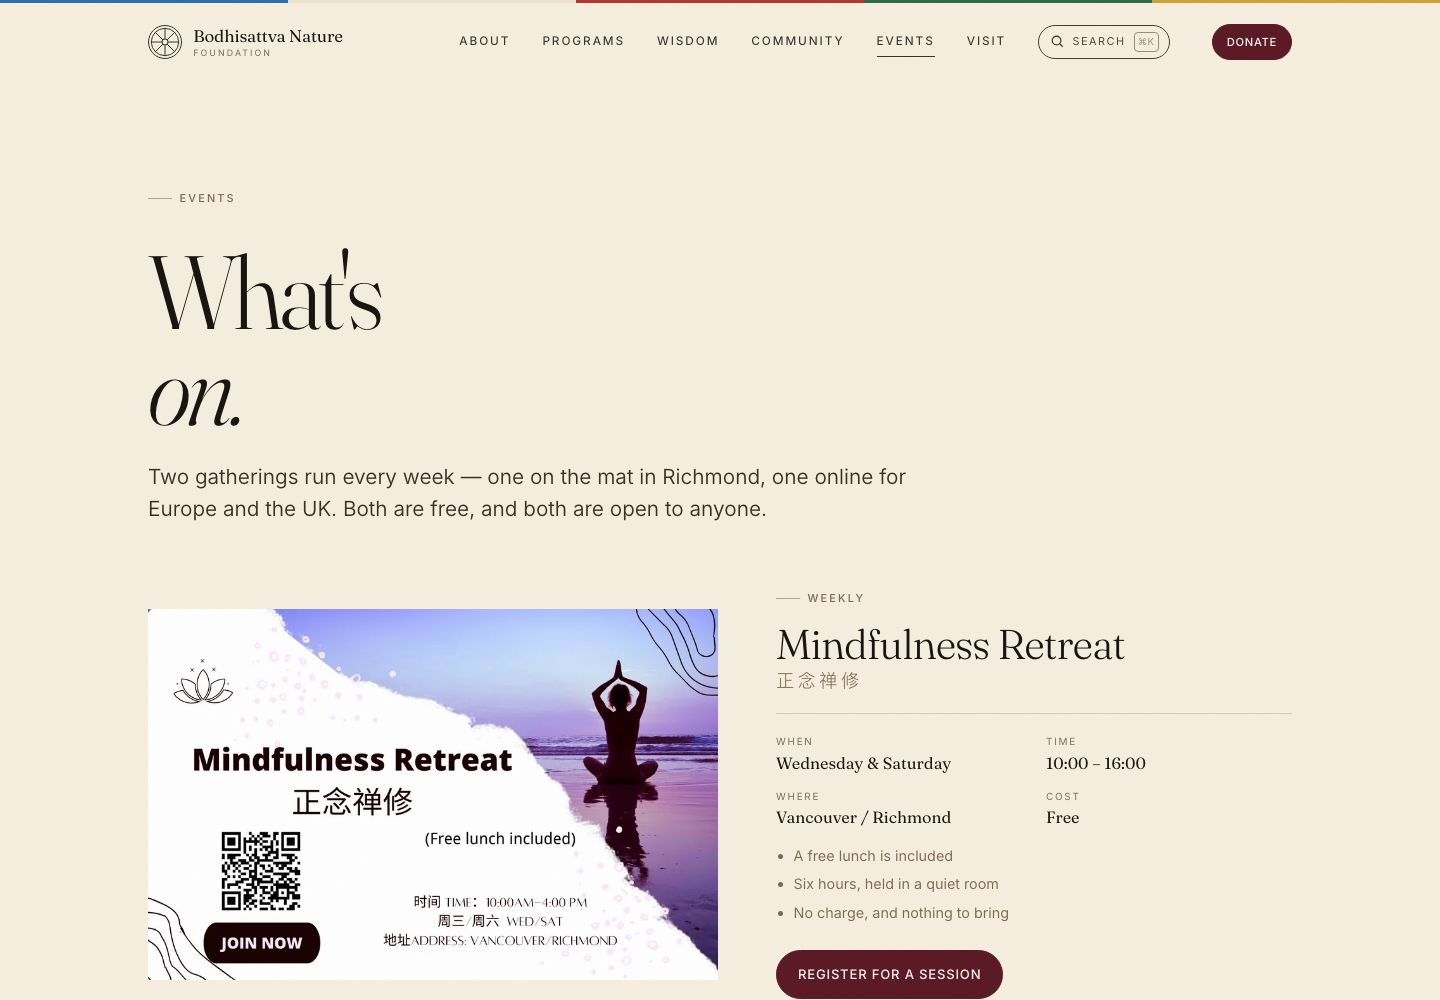
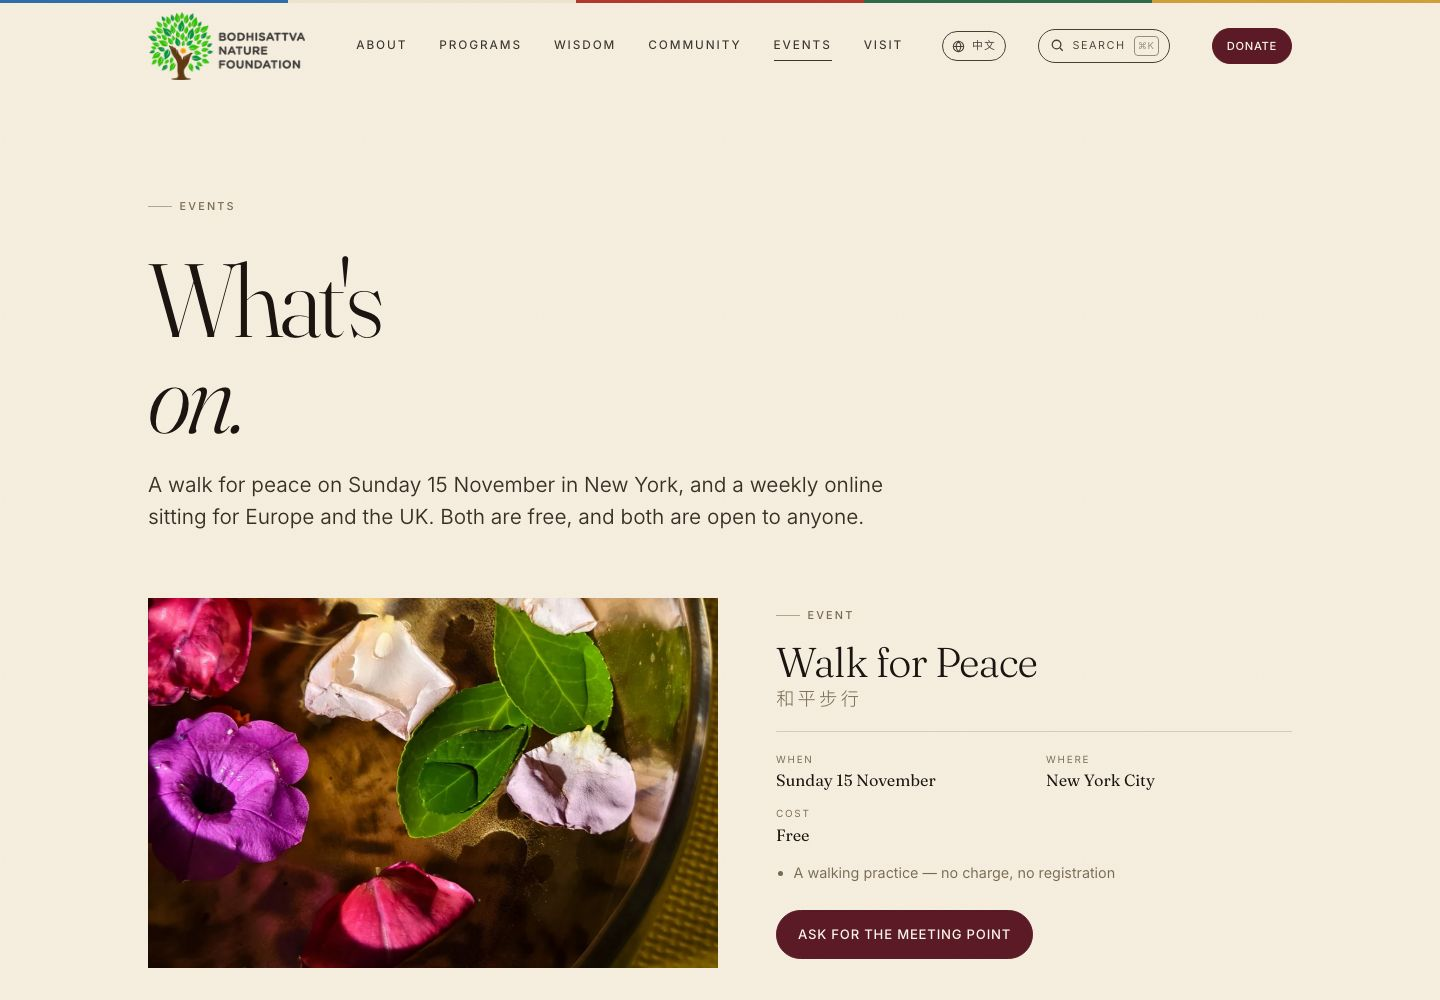
Walk for Peace: photo, Sunday 15 November, New York City
Uses the supplied photo (watermark band cropped, reframed 20:13) as the
event image, sets the date and city, and marks the event as a one-off so
the events page labels it Event rather than Weekly. No start time was
given, so the time row is omitted rather than guessed.

diff --git a/site/src/data/events.ts b/site/src/data/events.ts
@@ -6,6 +6,7 @@ export type Event = {
   time?: string;
   place?: string;
   image?: string;
+  oneOff?: boolean;
   notes?: string[];
   themes?: string[];
   cta: string;
@@ -13,16 +14,20 @@ export type Event = {
 
 /**
  * The weekly online sitting comes from the poster on bodhinature.com/upcomingevents/.
- * Walk for Peace has no published date, place or poster yet, so those fields are
- * left empty and the views render a "details to be announced" state.
+ * Walk for Peace is a one-off: Sunday 15 November, New York City. No time was given,
+ * so the views omit the time row.
  */
 export const events: Event[] = [
   {
     slug: "walk-for-peace",
     title: "Walk for Peace",
     titleCn: "和平步行",
+    cadence: "Sunday 15 November",
+    place: "New York City",
+    image: "event-walk",
+    oneOff: true,
     notes: ["A walking practice — no charge, no registration"],
-    cta: "Ask for the date",
+    cta: "Ask for the meeting point",
   },
   {
     slug: "online-meditation-centre",

diff --git a/site/src/pages/search-index.json.ts b/site/src/pages/search-index.json.ts
@@ -13,7 +13,7 @@ const pages: Doc[] = [
   { t: "Wisdom Words", d: "Fourteen short teachings on practice and the nature of mind.", u: "/wisdom/", k: "page" },
   { t: "Community", d: "Daily schedule, retreats, Tai Chi in Richmond, hospice care.", u: "/community/", k: "page" },
   { t: "What's on", d: "Mindfulness retreat Wednesday and Saturday, online meditation centre for Europe.", u: "/events/", k: "page" },
-  { t: "Walk for Peace", d: "A walking practice; date and meeting point announced when set.", u: "/events/", k: "event" },
+  { t: "Walk for Peace", d: "Sunday 15 November, New York City. A walking practice, free and open to all.", u: "/events/", k: "event" },
   { t: "Online Meditation Centre", d: "Saturday and Sunday, 07:00 CET / 06:00 UK, about two hours.", u: "/events/", k: "event" },
   { t: "Volunteer", d: "Dubbing, editing, translating, coordinating.", u: "/volunteer/", k: "page" },
   { t: "Donate", d: "Ways to give, and what your contribution carries.", u: "/donate/", k: "page" },

diff --git a/site/src/pages/zh/search-index.json.ts b/site/src/pages/zh/search-index.json.ts
@@ -13,7 +13,7 @@ export const GET: APIRoute = () => {
     { t: "智慧法语", d: t.wisdom.lede, u: "/wisdom/", k: "页面" },
     { t: "共修", d: t.community.lede, u: "/community/", k: "页面" },
     { t: "近期活动", d: t.events.lede, u: "/events/", k: "页面" },
-    { t: "和平步行", d: "以行走为修行；日期与集合地点确定后公告。", u: "/events/", k: "活动" },
+    { t: "和平步行", d: "11月15日（周日），纽约市。以行走为修行，免费开放。", u: "/events/", k: "活动" },
     { t: "义工", d: t.volunteer.lede, u: "/volunteer/", k: "页面" },
     { t: "护持", d: t.donate.lede, u: "/donate/", k: "页面" },
     { t: "来访与联系", d: t.contact.lede, u: "/contact/", k: "页面" },

diff --git a/site/src/i18n/zh.ts b/site/src/i18n/zh.ts
@@ -267,7 +267,8 @@ export const zh = {
     eyebrow: "活动",
     headingLine1: "近期",
     headingLine2: "活动。",
-    lede: "每周的线上共修，以及日期确定后公告的和平步行。两者皆免费，皆欢迎任何人。",
+    lede:
+      "十一月十五日（周日）在纽约的和平步行，以及每周为欧洲与英国举办的线上共修。两者皆免费，皆欢迎任何人。",
     weekly: "每周",
     event: "活动",
     tba: "日期与地点待公布",

diff --git a/site/src/i18n/en.ts b/site/src/i18n/en.ts
@@ -277,7 +277,7 @@ export const en = {
     headingLine1: "What's",
     headingLine2: "on.",
     lede:
-      "A weekly online sitting, and a walk for peace announced as its date is set. Both are free, and both are open to anyone.",
+      "A walk for peace on Sunday 15 November in New York, and a weekly online sitting for Europe and the UK. Both are free, and both are open to anyone.",
     weekly: "Weekly",
     event: "Event",
     tba: "Date and place to be announced",

diff --git a/site/src/i18n/zh-data.ts b/site/src/i18n/zh-data.ts
@@ -468,8 +468,12 @@ export const events = [
     slug: "walk-for-peace",
     title: "和平步行",
     titleCn: "Walk for Peace",
+    cadence: "11月15日（周日）",
+    place: "纽约市",
+    image: "event-walk",
+    oneOff: true,
     notes: ["以行走为修行——免费，无须报名"],
-    cta: "询问日期",
+    cta: "询问集合地点",
   },
   {
     slug: "online-meditation-centre",

diff --git a/scripts/process_images.py b/scripts/process_images.py
@@ -89,6 +89,7 @@ MANIFEST = {
     "avatar-5": "2022/05/75x75_auto1.png",
 
     # upcoming-events posters
+    "event-walk": "2026/11/walk-for-peace.jpg",
     "event-retreat": "2024/04/3-1.png",
     "event-online": "2024/04/4-1.png",
     "event-wisdom": "2024/04/2-1.png",
@@ -125,6 +126,7 @@ WIDTH_OVERRIDES = {
     "hero": [480, 900, 1600],
     "logo": [180, 360],
     "event-retreat": [480, 900, 1400],
+    "event-walk": [480, 900, 1400],
     "event-online": [480, 900, 1400],
     "programs-banner": [480, 900, 1600],
     "contact-hero": [480, 900, 1600],
